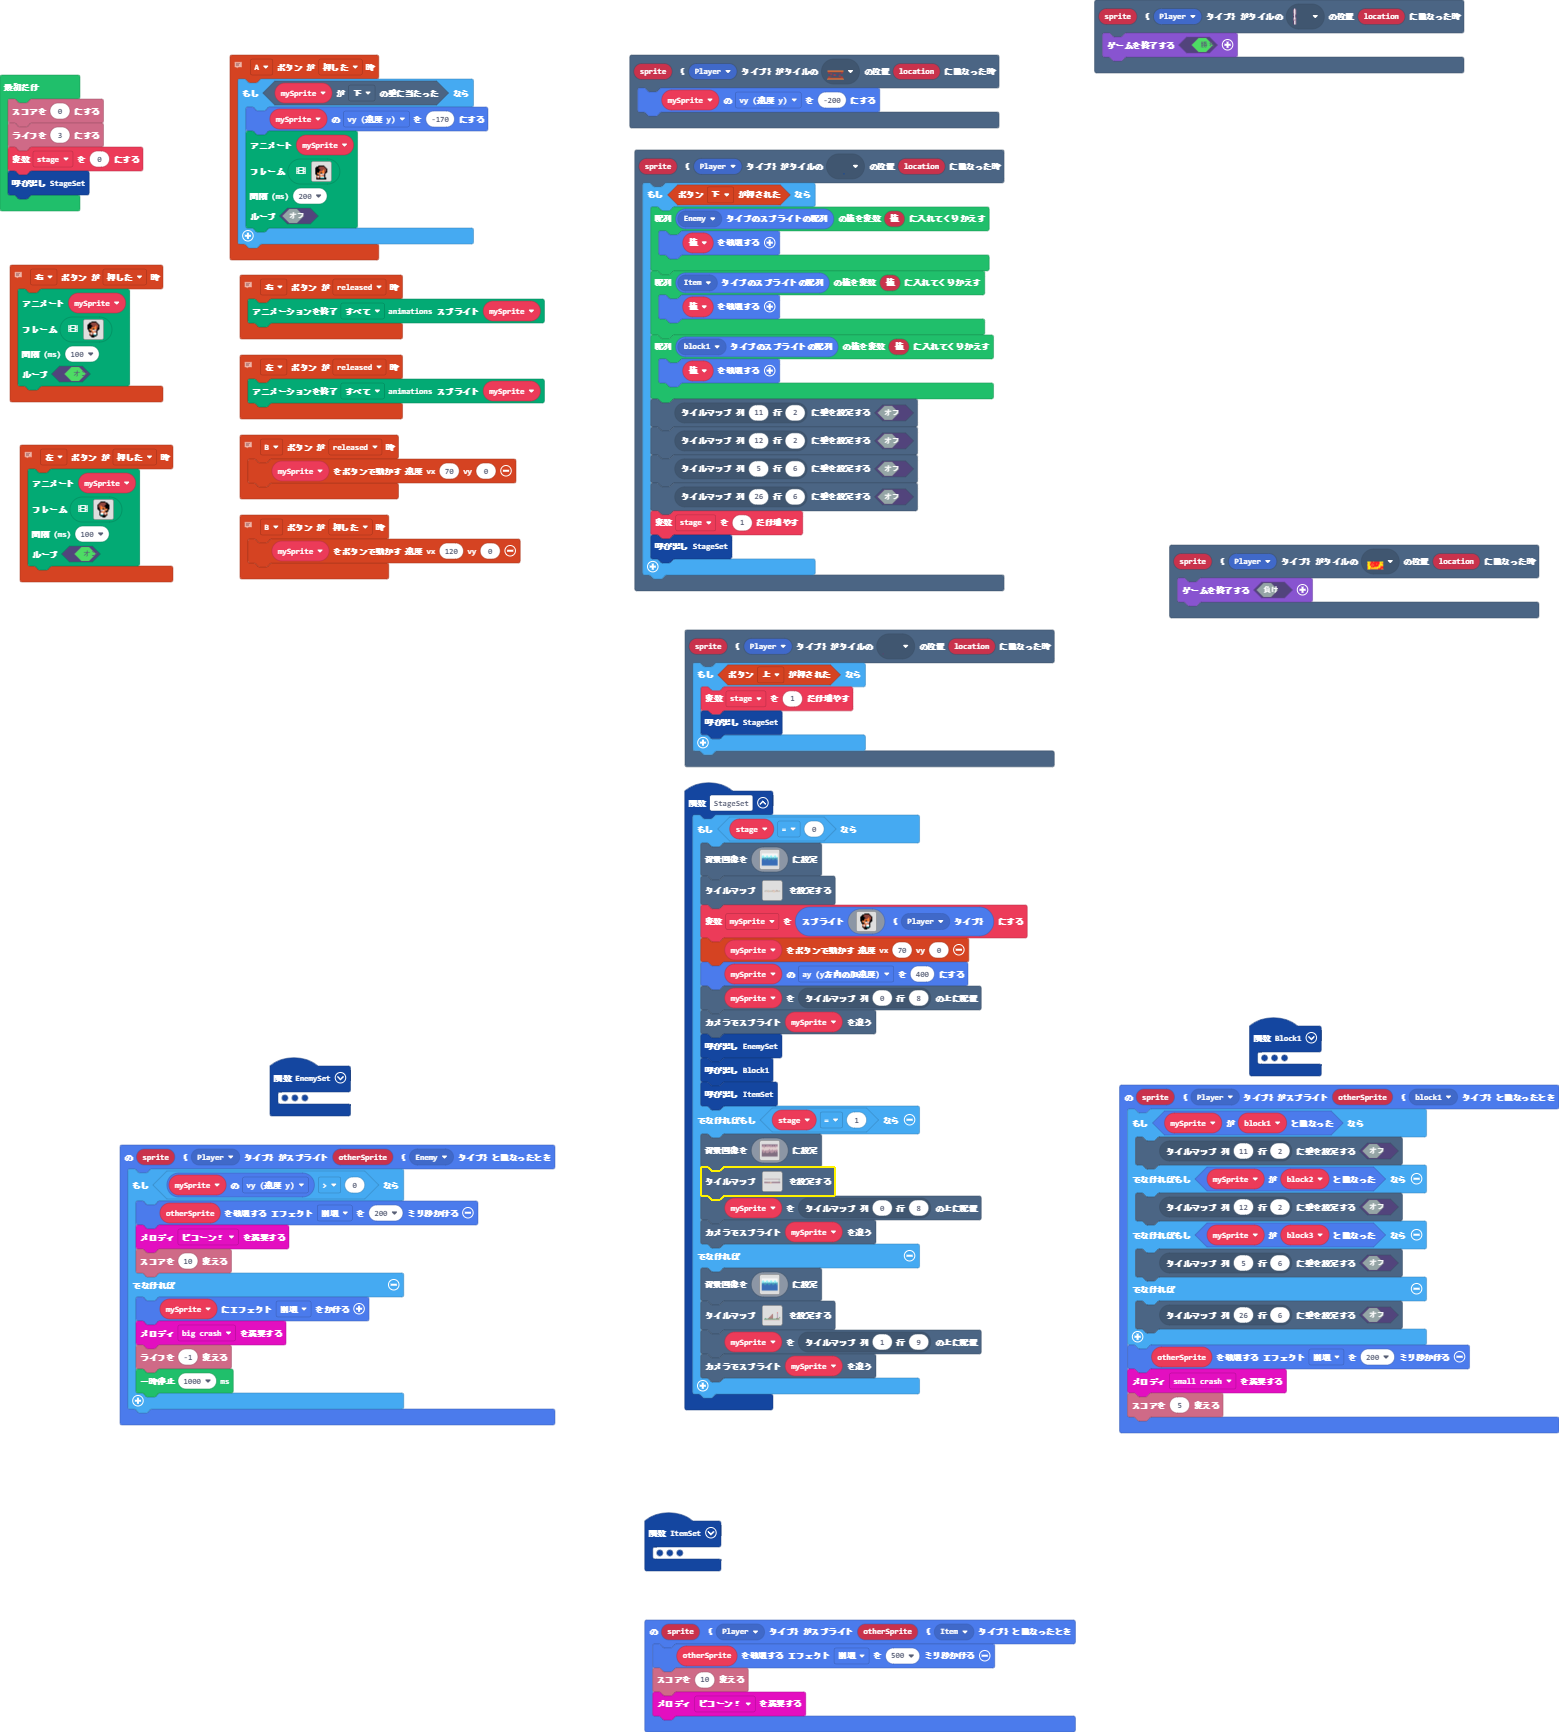
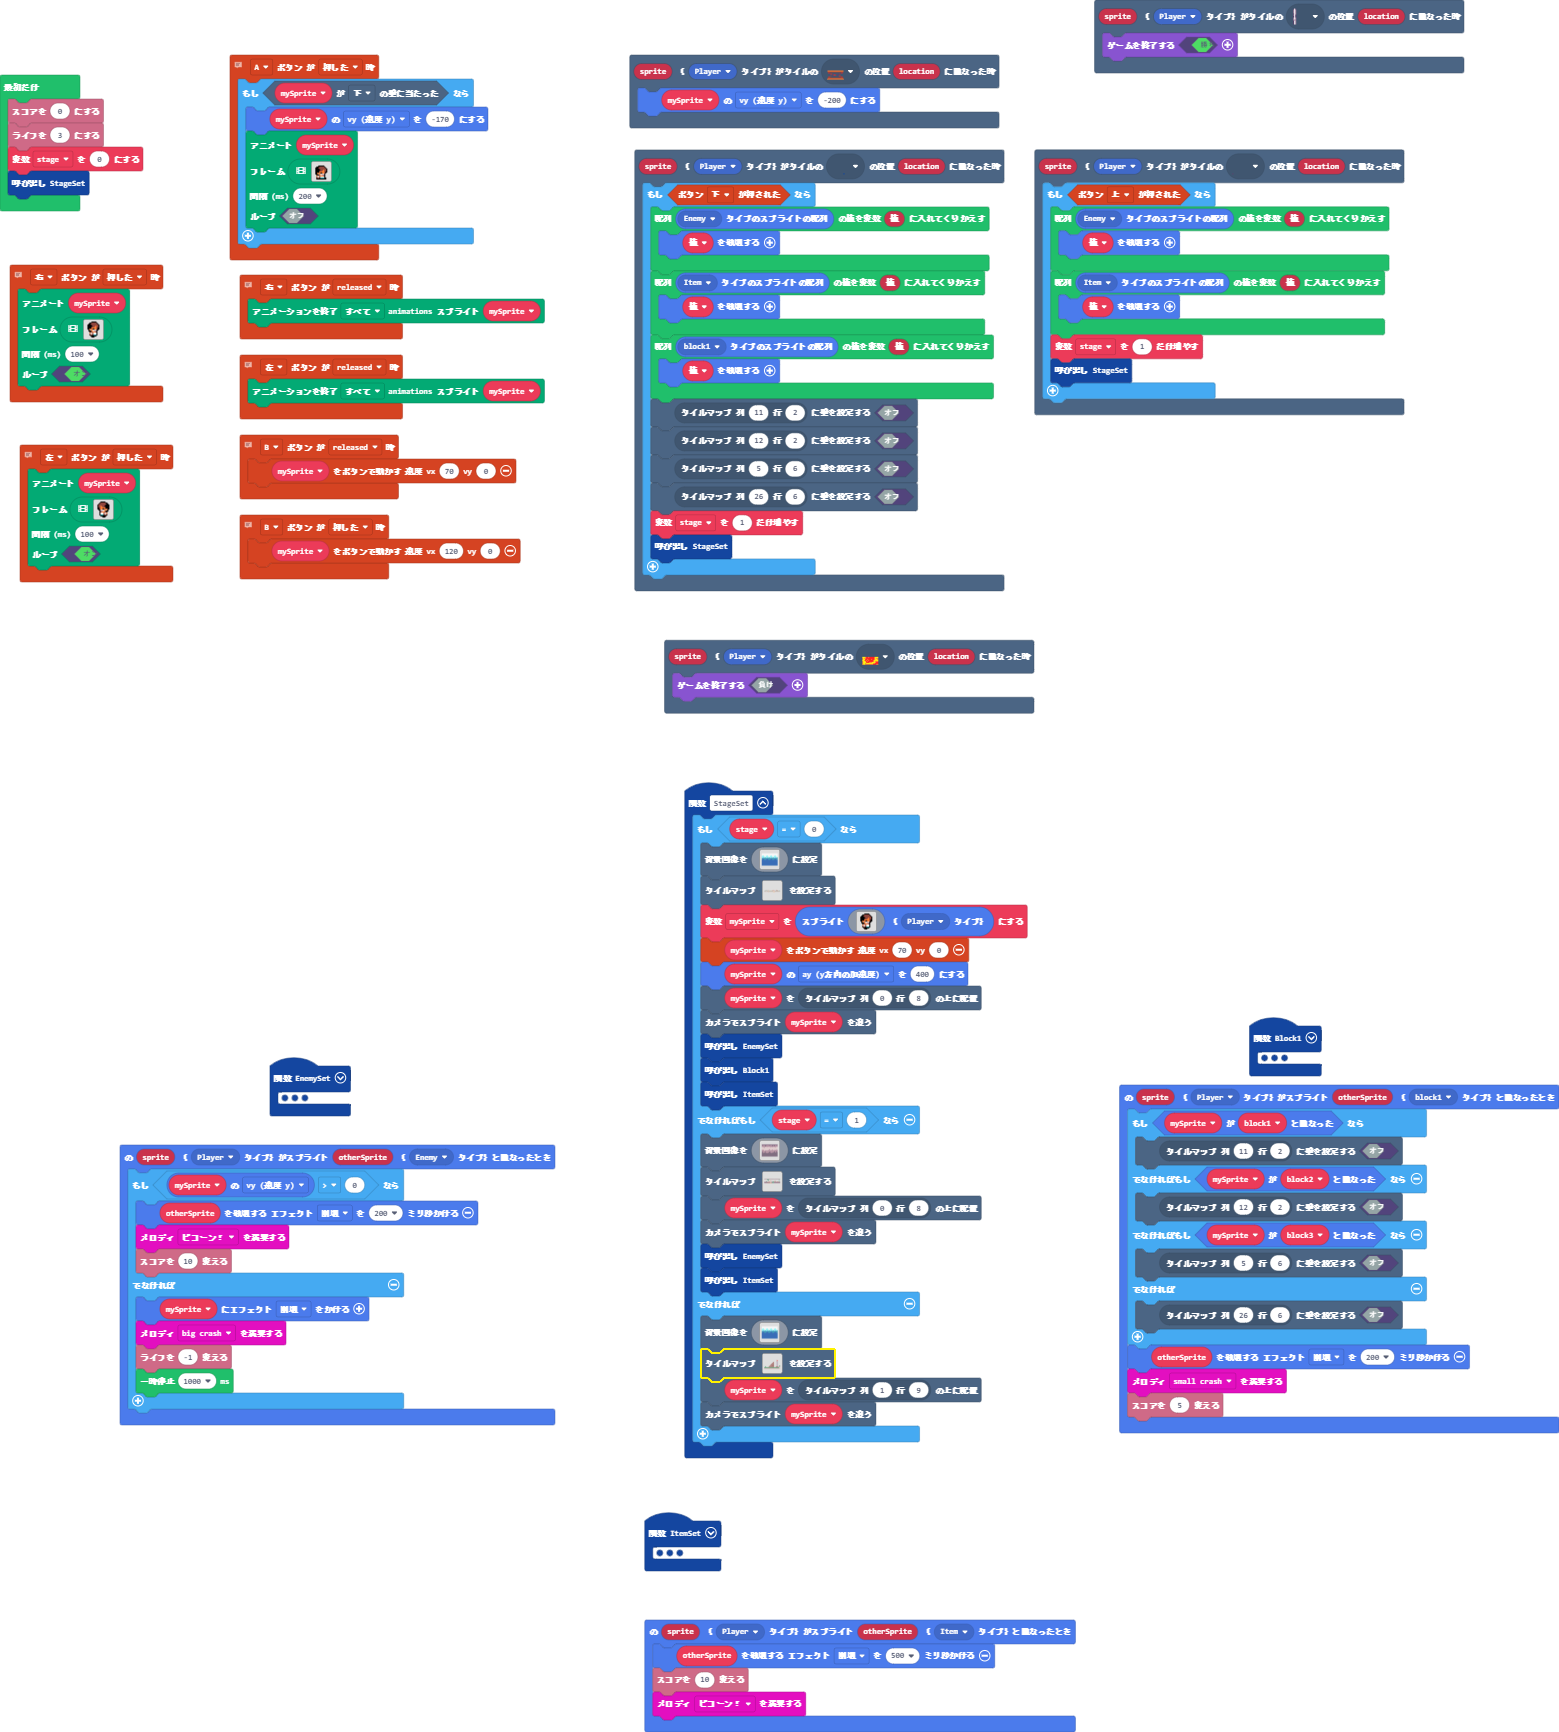
更新 main.blocks, main.ts, tilemap.g.jres, tilemap.g.ts

diff --git a/tilemap.g.ts b/tilemap.g.ts
@@ -172,22 +172,6 @@ namespace myTiles {
 . . . . . . . . . . . . . . . . 
 . . . . . . . . . . . . . . . . 
 `, [myTiles.transparency16], TileScale.Sixteen);
-            case "レベル9":
[1 lines of base64/hex data omitted]
-. . . . . . . . . . . . . . . . . . . . 
-. . . . . . . . . . . . . . . . . . . . 
-. . . . . . . . . . . . . . . . . . . . 
-. . . . . . . . . . . . . . . . . . . . 
-. . . . . . . . . . . . . . . . . . . . 
-. . . . . . . . . . 2 . . . . . . . . . 
-. . . . . . . . . 2 2 . . . . . . . . . 
-. . . . . . . . 2 2 2 . . . . . . . . . 
-. . . . . . . 2 2 2 2 . . . . . . . . . 
-. . . . . . 2 2 2 2 2 . . . . . . . . 2 
-. 2 . . . 2 2 2 2 2 2 . . . . 2 2 2 . 2 
-2 2 2 2 2 2 2 2 2 2 2 2 2 2 2 2 2 2 2 2 
-2 2 2 2 2 2 2 2 2 2 2 2 2 2 2 2 2 2 2 2 
-`, [myTiles.transparency16,myTiles.tile3,myTiles.tile2,myTiles.tile7,myTiles.tile9,myTiles.tile8,myTiles.tile10,myTiles.tile11,myTiles.tile15,myTiles.tile17,myTiles.tile20], TileScale.Sixteen);
             case "レベル6":
[1 lines of base64/hex data omitted]
 ......................................................................
@@ -205,21 +189,37 @@ namespace myTiles {
 222222222222222222...222222222222222222........22222222222222222222222
 `, [myTiles.transparency16,myTiles.tile3,myTiles.tile2,myTiles.tile8,myTiles.tile5,myTiles.tile4,myTiles.tile7,myTiles.tile9,myTiles.tile1,myTiles.tile10,sprites.castle.tileGrass1,myTiles.tile6,myTiles.tile11,myTiles.tile12,myTiles.tile13,sprites.dungeon.collectibleRedCrystal], TileScale.Sixteen);
             case "レベル8":
[2 lines of base64/hex data omitted]
 22222222222222222222222222222222222222222222222222
-..............................................2...
-..............................................2...
-..............................................2...
-..............................................2...
-..............................................2...
-..............................................2...
-..............................................2...
-..................................................
+.........22222................................2...
+..........2222................................2...
+...........222................................2...
+...........222................................2...
+............22................................2...
+.....................22..........22...........2...
+................................2..2..........2...
+.....2222.................2222....................
 22222222222.2.22.22....222222222222222222222222222
 22222222222.2.22.22....222222222222222222222222222
 22222222222.2.22.22....222222222222222222222222222
 22222222222.2.22.22....222222222222222222222222222
-`, [myTiles.transparency16,myTiles.tile5,myTiles.tile12,myTiles.tile16,myTiles.tile18,myTiles.tile14,myTiles.tile6,myTiles.tile21,myTiles.tile23,myTiles.tile24,myTiles.tile25,myTiles.tile26,myTiles.tile27,myTiles.tile28,myTiles.tile29,myTiles.tile30,myTiles.tile31,myTiles.tile32,myTiles.tile34,myTiles.tile35], TileScale.Sixteen);
+`, [myTiles.transparency16,myTiles.tile5,myTiles.tile12,myTiles.tile16,myTiles.tile18,myTiles.tile14,myTiles.tile6,myTiles.tile21,myTiles.tile23,myTiles.tile24,myTiles.tile25,myTiles.tile26,myTiles.tile27,myTiles.tile28,myTiles.tile29,myTiles.tile30,myTiles.tile31,myTiles.tile32,myTiles.tile34,myTiles.tile35,myTiles.tile10,myTiles.tile11,sprites.dungeon.collectibleRedCrystal,sprites.castle.tileGrass1,sprites.castle.tileDarkGrass2], TileScale.Sixteen);
+            case "レベル9":
[1 lines of base64/hex data omitted]
+. . . . . . . . . . . . . . . . . . 
+. . . . . . . . . . . . . . . . . . 
+. . . . . . . . . . . . . . . . . . 
+. . . . . . . . . . . . . . . . . . 
+. . . . . . . . . . . . . . . . . . 
+. . . . . . . . . . 2 . . . . . . . 
+. . . . . . . . . 2 2 . . . . . . . 
+. . . . . . . . 2 2 2 . . . . . . . 
+. . . . . . . 2 2 2 2 . . . . . . . 
+. . . . . . 2 2 2 2 2 . . . . . . 2 
+. 2 . . . 2 2 2 2 2 2 . . 2 2 2 . 2 
+2 2 2 2 2 2 2 2 2 2 2 2 2 2 2 2 2 2 
+2 2 2 2 2 2 2 2 2 2 2 2 2 2 2 2 2 2 
+`, [myTiles.transparency16,myTiles.tile3,myTiles.tile2,myTiles.tile7,myTiles.tile9,myTiles.tile8,myTiles.tile10,myTiles.tile11,myTiles.tile15,myTiles.tile17], TileScale.Sixteen);
         }
         return null;
     })

diff --git a/main.ts b/main.ts
@@ -75,6 +75,12 @@ scene.onOverlapTile(SpriteKind.Player, assets.tile`myTile4`, function (sprite, l
 })
 scene.onOverlapTile(SpriteKind.Player, assets.tile`myTile12`, function (sprite, location) {
     if (controller.up.isPressed()) {
+        for (let 値 of sprites.allOfKind(SpriteKind.Enemy)) {
+            値.destroy()
+        }
+        for (let 値 of sprites.allOfKind(SpriteKind.Item)) {
+            値.destroy()
+        }
         stage += 1
         StageSet()
     }
@@ -646,6 +652,8 @@ function StageSet () {
         tiles.setTilemap(tilemap`レベル8`)
         tiles.placeOnTile(mySprite, tiles.getTileLocation(0, 8))
         scene.cameraFollowSprite(mySprite)
+        EnemySet()
+        ItemSet()
     } else {
         scene.setBackgroundImage(img`
             1111111111111111111111111111111111111111111111111111111111111111111111111111111111111111111111111111111111111111111111111111111111111111111111111111111111111111
